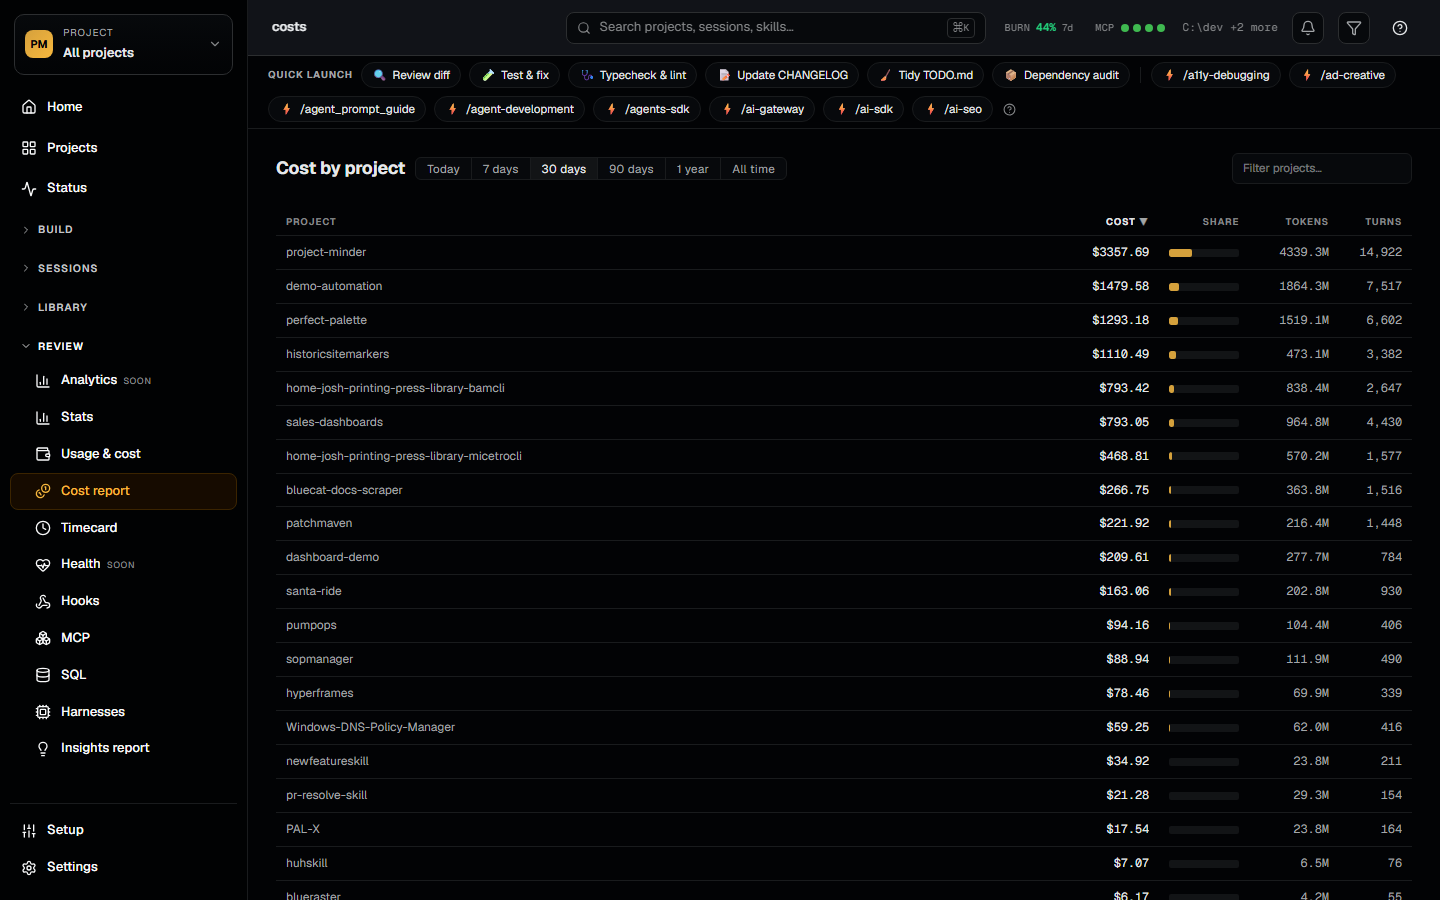
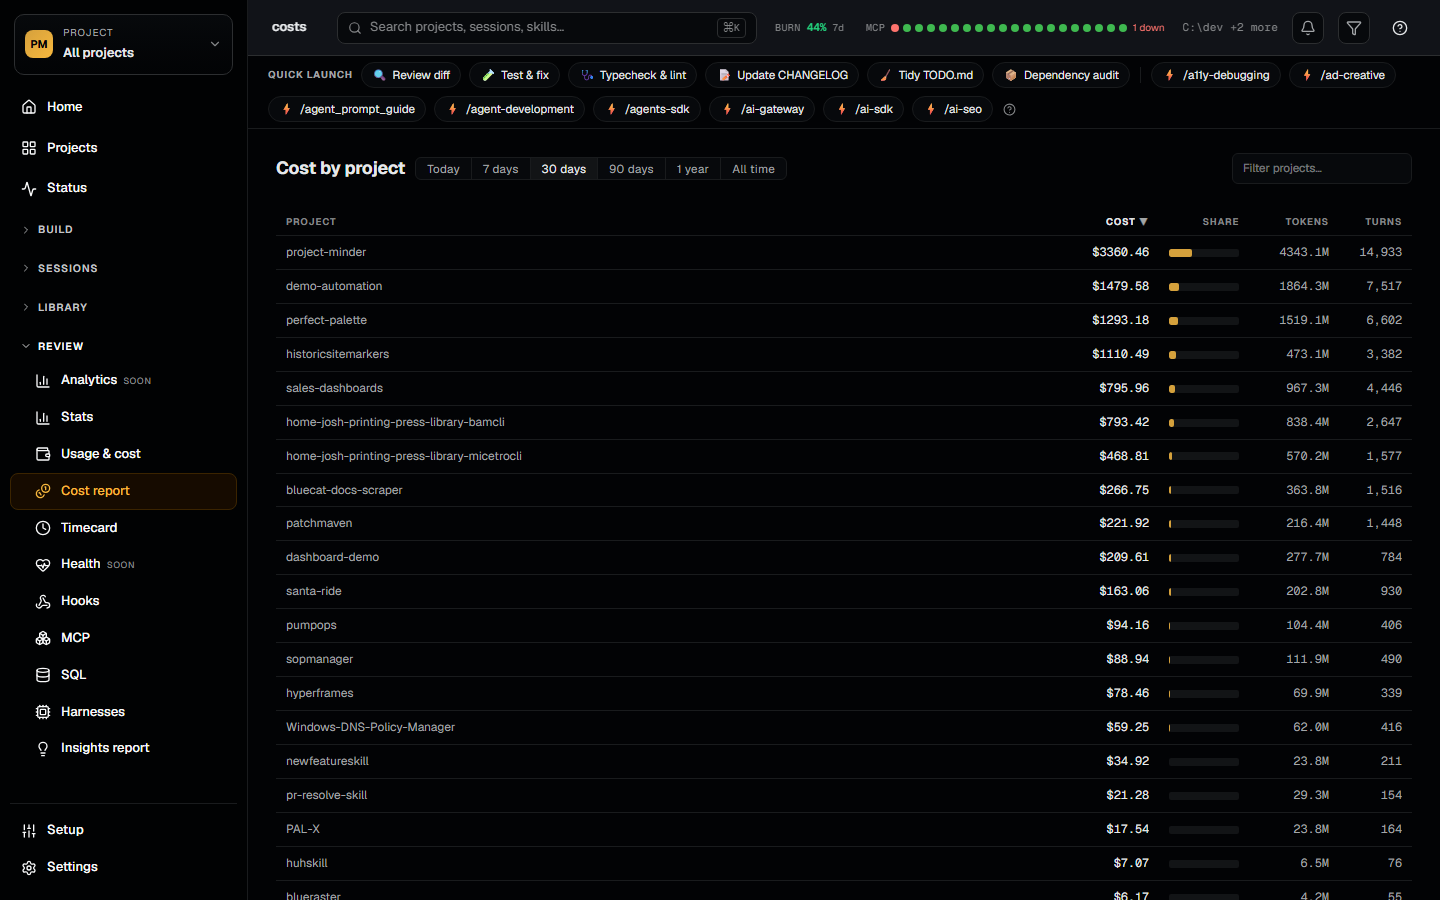
fix(capture): assert cost report content, qualify Linux downloads as x86_64
Round 7 — two findings, both extending patterns established earlier.

- **Codex P2: the cost shots could publish an empty report.** Same class as
  round 6's github-activity fix, one route over: both cost routes navigate
  successfully and then render an empty state when their child API fails —
  EngagementDashboard.tsx:97 prints "Engagement report unavailable." on a 503,
  CostReportDashboard prints "No cost data for this period." Neither is a
  skeleton, so the loop happily overwrote the published PNGs and exited 0.
  Both shots now carry `requireText`.

  Applying it surfaced a bug in `requireText` itself: `innerText` returns
  *rendered* text, so the source's "Thresholds" arrives as "THRESHOLDS" once
  CSS uppercases it, and the case-sensitive check failed on a completely
  healthy page. The assertion is now case-insensitive — caught only because the
  fix was run rather than reasoned about.

- **Codex P2: Linux downloads are x86_64-only.** The release matrix has a
  single `ubuntu-22.04` job with updater target `linux-x86_64`
  (release-installers.yml:122-125), so the AppImage and .deb cannot run
  natively on ARM Linux. Qualified.

diff --git a/site/index.html b/site/index.html
@@ -278,7 +278,7 @@
   <section class="quick-start" id="quick-start">
     <div class="container">
       <h2>Quick Start</h2>
-      <p class="prereqs">The fastest route is the <strong>desktop app</strong>: grab the installer for your platform from <a href="https://github.com/joshuatownsend/project-minder/releases">GitHub Releases</a> — Windows <code>.exe</code>, macOS Apple Silicon <code>.dmg</code>, macOS Intel <code>.app.tar.gz</code> (extract, then drag to Applications), Linux <code>.AppImage</code> / <code>.deb</code>. It bundles the dashboard server and its own Node runtime, drops a tray icon, and opens the UI at <code>localhost:4100</code>. Nothing else to install. The builds are unsigned, so the first launch needs a nudge past the OS: on Windows, SmartScreen → <em>More info</em> → <em>Run anyway</em>; on macOS, right-click the app → <em>Open</em>.</p>
+      <p class="prereqs">The fastest route is the <strong>desktop app</strong>: grab the installer for your platform from <a href="https://github.com/joshuatownsend/project-minder/releases">GitHub Releases</a> — Windows <code>.exe</code>, macOS Apple Silicon <code>.dmg</code>, macOS Intel <code>.app.tar.gz</code> (extract, then drag to Applications), Linux x86_64 <code>.AppImage</code> / <code>.deb</code>. It bundles the dashboard server and its own Node runtime, drops a tray icon, and opens the UI at <code>localhost:4100</code>. Nothing else to install. The builds are unsigned, so the first launch needs a nudge past the OS: on Windows, SmartScreen → <em>More info</em> → <em>Run anyway</em>; on macOS, right-click the app → <em>Open</em>.</p>
       <p class="prereqs">Or run it from source:</p>
       <pre class="code-block"><code>git clone https://github.com/joshuatownsend/project-minder.git
 cd project-minder
